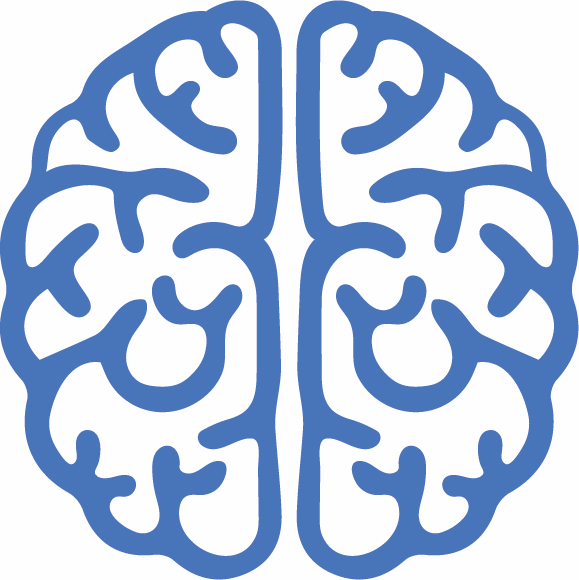
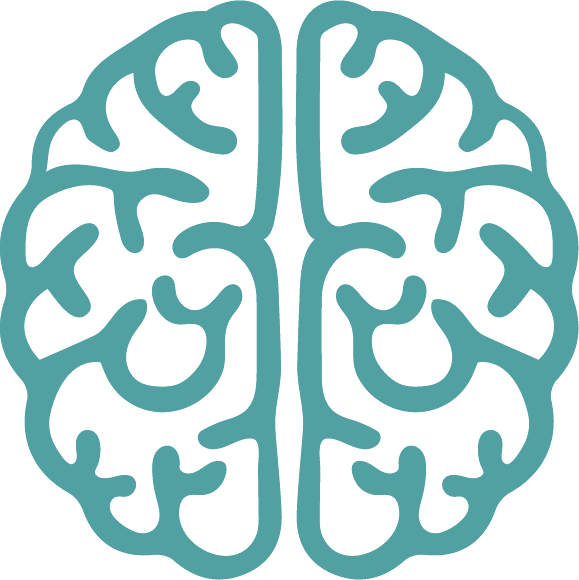
Uppdatera Livsförmågor med Skolyogas originalsymboler och färger

diff --git a/src/app/page.tsx b/src/app/page.tsx
@@ -823,6 +823,147 @@ function HomePageContent() {
       )}
 
       {/* =====================================================================
+          LIVSFÖRMÅGOR SECTION - Med Skolyogas egna symbolbilder
+         ===================================================================== */}
+      <section className="w-full max-w-[1280px] mx-auto px-4 sm:px-8 lg:px-12">
+        <div className="rounded-3xl bg-[#6F6F6E] text-white p-8 sm:p-12 lg:p-14 shadow-md">
+          <div className="grid grid-cols-1 lg:grid-cols-12 gap-8 lg:gap-10 items-stretch">
+            
+            {/* Left Intro Column */}
+            <div className="lg:col-span-4 flex flex-col justify-between space-y-6">
+              <div className="space-y-5">
+                <h2 className="text-4xl sm:text-5xl font-bold font-cardo text-[#E29B9D] leading-[1.12]">
+                  Skolyoga tränar Livsförmågor
+                </h2>
+                <p className="text-sm sm:text-base text-white/95 font-cardo leading-relaxed">
+                  Genom att öva Livsförmågor i klassrummet ger vi eleverna färdigheter som både kan användas i klassrummet och i livet för att förbättra studieresultat och relationer.
+                </p>
+              </div>
+              <div className="pt-2">
+                <Link
+                  href="/metoden"
+                  className="inline-flex items-center justify-center px-8 py-3 rounded-full border-2 border-white text-white text-xs font-bold uppercase tracking-widest hover:bg-white hover:text-[#6F6F6E] transition-all"
+                >
+                  Läs mer
+                </Link>
+              </div>
+            </div>
+
+            {/* Right 3 Cards Grid */}
+            <div className="lg:col-span-8 grid grid-cols-1 sm:grid-cols-3 gap-5">
+              
+              {/* Card 1: Studieteknik */}
+              <div className="rounded-2xl bg-[#656564] border border-white/10 p-6 sm:p-7 flex flex-col items-center text-center justify-between space-y-5 shadow-xs">
+                <h3 className="text-2xl font-normal font-cardo text-[#70B9BA]">
+                  Studieteknik
+                </h3>
+                <div className="relative w-28 h-28 flex items-center justify-center">
+                  <Image
+                    src="/images/symbols/studieteknik.png"
+                    alt="Studieteknik – Hjärna"
+                    width={112}
+                    height={112}
+                    className="w-full h-full object-contain"
+                  />
+                </div>
+                <div className="space-y-3 w-full">
+                  <div className="text-sm font-cardo text-[#70B9BA]">
+                    Du lär dig:
+                  </div>
+                  <ul className="space-y-1.5 text-sm font-cardo text-[#70B9BA] text-left inline-block">
+                    <li className="flex items-center gap-2">
+                      <span className="w-1.5 h-1.5 rounded-full bg-[#70B9BA] shrink-0" />
+                      <span>Flow & djupfokus</span>
+                    </li>
+                    <li className="flex items-center gap-2">
+                      <span className="w-1.5 h-1.5 rounded-full bg-[#70B9BA] shrink-0" />
+                      <span>Rikta fokus</span>
+                    </li>
+                    <li className="flex items-center gap-2">
+                      <span className="w-1.5 h-1.5 rounded-full bg-[#70B9BA] shrink-0" />
+                      <span>Upprätthålla fokus</span>
+                    </li>
+                  </ul>
+                </div>
+              </div>
+
+              {/* Card 2: Stresshantering */}
+              <div className="rounded-2xl bg-[#656564] border border-white/10 p-6 sm:p-7 flex flex-col items-center text-center justify-between space-y-5 shadow-xs">
+                <h3 className="text-2xl font-normal font-cardo text-[#FFE271]">
+                  Stresshantering
+                </h3>
+                <div className="relative w-28 h-28 flex items-center justify-center">
+                  <Image
+                    src="/images/symbols/stresshantering.png"
+                    alt="Stresshantering – Hjärta"
+                    width={112}
+                    height={112}
+                    className="w-full h-full object-contain"
+                  />
+                </div>
+                <div className="space-y-3 w-full">
+                  <div className="text-sm font-cardo text-[#FFE271]">
+                    Du lär dig:
+                  </div>
+                  <ul className="space-y-1.5 text-sm font-cardo text-[#FFE271] text-left inline-block">
+                    <li className="flex items-center gap-2">
+                      <span className="w-1.5 h-1.5 rounded-full bg-[#FFE271] shrink-0" />
+                      <span>Återhämtning</span>
+                    </li>
+                    <li className="flex items-center gap-2">
+                      <span className="w-1.5 h-1.5 rounded-full bg-[#FFE271] shrink-0" />
+                      <span>Medveten närvaro</span>
+                    </li>
+                    <li className="flex items-center gap-2">
+                      <span className="w-1.5 h-1.5 rounded-full bg-[#FFE271] shrink-0" />
+                      <span>Reglering</span>
+                    </li>
+                  </ul>
+                </div>
+              </div>
+
+              {/* Card 3: Trygghet */}
+              <div className="rounded-2xl bg-[#656564] border border-white/10 p-6 sm:p-7 flex flex-col items-center text-center justify-between space-y-5 shadow-xs">
+                <h3 className="text-2xl font-normal font-cardo text-[#E29B9D]">
+                  Trygghet
+                </h3>
+                <div className="relative w-28 h-28 flex items-center justify-center">
+                  <Image
+                    src="/images/symbols/trygghet.png"
+                    alt="Trygghet – Träd med rötter"
+                    width={112}
+                    height={112}
+                    className="w-full h-full object-contain"
+                  />
+                </div>
+                <div className="space-y-3 w-full">
+                  <div className="text-sm font-cardo text-[#E29B9D]">
+                    Du lär dig:
+                  </div>
+                  <ul className="space-y-1.5 text-sm font-cardo text-[#E29B9D] text-left inline-block">
+                    <li className="flex items-center gap-2">
+                      <span className="w-1.5 h-1.5 rounded-full bg-[#E29B9D] shrink-0" />
+                      <span>Känslohantering</span>
+                    </li>
+                    <li className="flex items-center gap-2">
+                      <span className="w-1.5 h-1.5 rounded-full bg-[#E29B9D] shrink-0" />
+                      <span>Växande tankesätt</span>
+                    </li>
+                    <li className="flex items-center gap-2">
+                      <span className="w-1.5 h-1.5 rounded-full bg-[#E29B9D] shrink-0" />
+                      <span>Medkänsla</span>
+                    </li>
+                  </ul>
+                </div>
+              </div>
+
+            </div>
+
+          </div>
+        </div>
+      </section>
+
+      {/* =====================================================================
           3. KORT BEVIS & RÖSTER FRÅN SKOLAN (Kompakt & förtroendeskapande för alla)
          ===================================================================== */}
       <section className="w-full max-w-[1280px] mx-auto px-4 sm:px-8 lg:px-12">

diff --git a/src/app/metoden/page.tsx b/src/app/metoden/page.tsx
@@ -25,6 +25,7 @@ interface Section {
   subtitle: string;
   badge: string;
   icon: any;
+  symbolSrc?: string;
   color: string;
   content: string[];
   keyPoints: string[];
@@ -37,6 +38,7 @@ const sections: Section[] = [
     subtitle: "Rikta och upprätthålla uppmärksamhet i en värld full av distraktioner",
     badge: "Studieteknik",
     icon: Brain,
+    symbolSrc: "/images/symbols/studieteknik.png",
     color: "brand-purple",
     content: [
       "Ungdomars vardag innehåller ständiga digitala distraktioner och högt tempo. Att rikta uppmärksamheten utåt gör det svårt att behålla sammanhållet fokus vid skolbänken.",
@@ -55,6 +57,7 @@ const sections: Section[] = [
     subtitle: "Förstå kroppens signaler och aktivera lugn-och-ro-systemet",
     badge: "Fysiologi",
     icon: Activity,
+    symbolSrc: "/images/symbols/stresshantering.png",
     color: "brand-pink",
     content: [
       "Stresshantering handlar om att förstå kroppens alarmsystem och ge eleven konkreta verktyg för att självreglera nervsystemet vid oro eller prestationsångest.",
@@ -73,6 +76,7 @@ const sections: Section[] = [
     subtitle: "Känslor, relationer och ett växande tankesätt",
     badge: "Trygghet",
     icon: ShieldCheck,
+    symbolSrc: "/images/symbols/trygghet.png",
     color: "brand-turquoise",
     content: [
       "Trygghet är grunden för allt lärande. Vi ger eleverna redskap att förstå och möta starka känslor utan att döma sig själva.",
@@ -153,13 +157,23 @@ export default function MetodenPage() {
             <button
               key={section.id}
               onClick={() => setActiveTab(section.id)}
-              className={`flex items-center gap-2 px-5 py-2.5 rounded-full text-xs sm:text-sm font-semibold transition-all cursor-pointer ${
+              className={`flex items-center gap-2.5 px-5 py-2.5 rounded-full text-xs sm:text-sm font-semibold transition-all cursor-pointer ${
                 isActive
                   ? "bg-brand-purple text-white shadow-md"
                   : "bg-white text-brand-darkGrey hover:text-brand-dark hover:bg-brand-sand border border-[#E3DFC9]"
               }`}
             >
-              <Icon className="w-4 h-4" />
+              {section.symbolSrc ? (
+                <Image
+                  src={section.symbolSrc}
+                  alt={section.title}
+                  width={18}
+                  height={18}
+                  className="w-4 h-4 object-contain"
+                />
+              ) : (
+                <Icon className="w-4 h-4" />
+              )}
               <span>{section.title}</span>
             </button>
           );
@@ -170,16 +184,29 @@ export default function MetodenPage() {
       <div className="bg-white rounded-3xl border border-[#E3DFC9] p-8 sm:p-12 shadow-sm space-y-8">
         
         <div className="flex flex-col md:flex-row md:items-center justify-between gap-6 pb-6 border-b border-[#EBE8DC]">
-          <div>
-            <div className="inline-flex items-center gap-2 px-3 py-1 rounded-full bg-brand-sand text-brand-dark text-xs font-semibold mb-2">
-              <span>{activeSection.badge}</span>
+          <div className="flex items-start gap-5">
+            {activeSection.symbolSrc && (
+              <div className="w-16 h-16 rounded-2xl bg-[#6F6F6E] p-3 flex items-center justify-center shrink-0 shadow-xs">
+                <Image
+                  src={activeSection.symbolSrc}
+                  alt={activeSection.title}
+                  width={48}
+                  height={48}
+                  className="w-full h-full object-contain"
+                />
+              </div>
+            )}
+            <div>
+              <div className="inline-flex items-center gap-2 px-3 py-1 rounded-full bg-brand-sand text-brand-dark text-xs font-semibold mb-2">
+                <span>{activeSection.badge}</span>
+              </div>
+              <h2 className="text-2xl sm:text-3xl font-bold font-cardo text-brand-dark">
+                {activeSection.title}
+              </h2>
+              <p className="text-sm sm:text-base text-brand-turquoise font-medium mt-1">
+                {activeSection.subtitle}
+              </p>
             </div>
-            <h2 className="text-2xl sm:text-3xl font-bold font-cardo text-brand-dark">
-              {activeSection.title}
-            </h2>
-            <p className="text-sm sm:text-base text-brand-turquoise font-medium mt-1">
-              {activeSection.subtitle}
-            </p>
           </div>
 
           <Link
